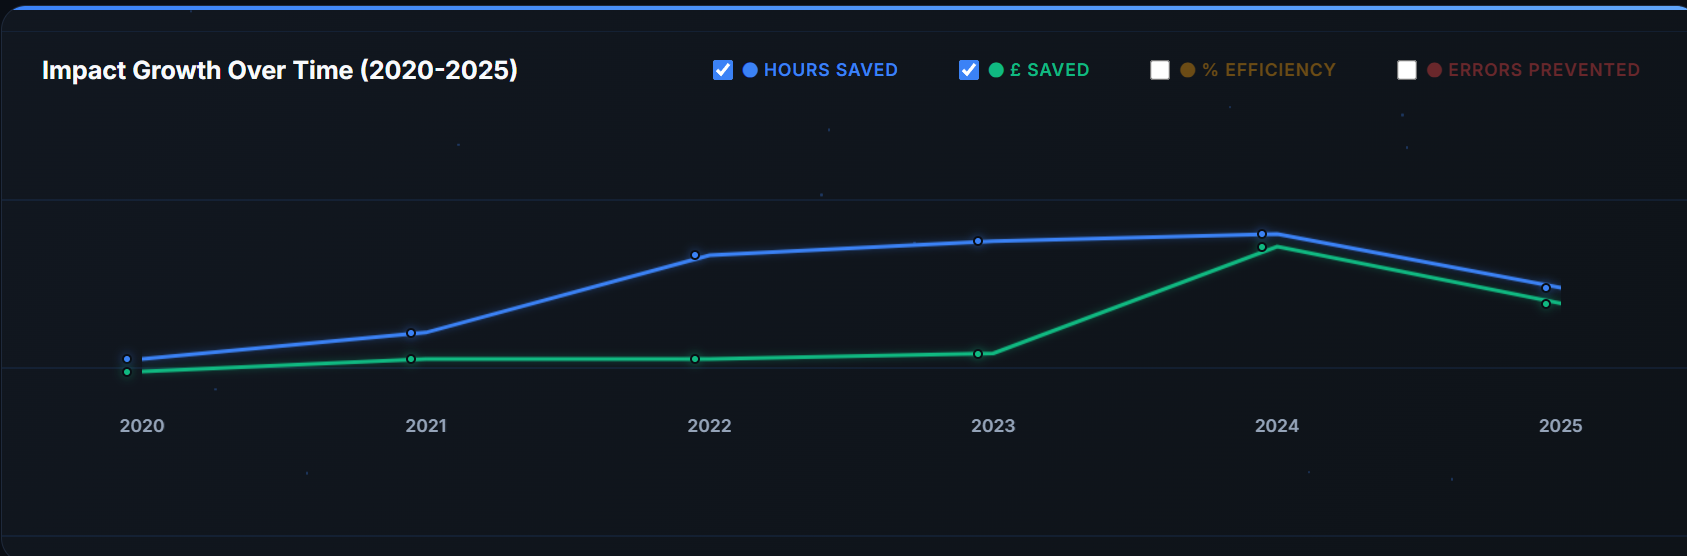
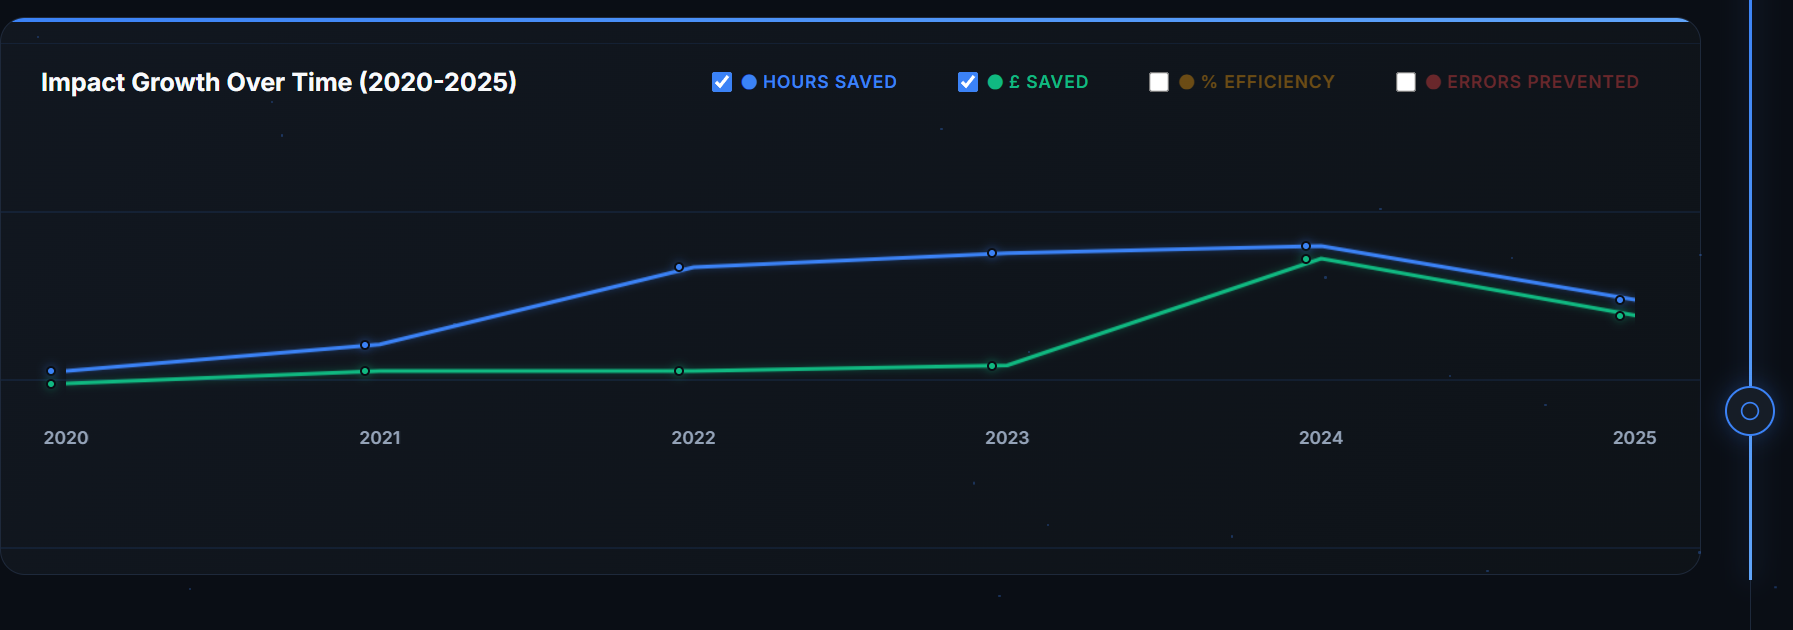
Fix 2020 dots alignment - all elements use same coordinate system
FINALLY FIXED: Lines, dots, and labels now use IDENTICAL positioning logic.

All three now calculate:
- chartAreaWidth = canvas.width - padding.left - padding.right
- position = padding.left + (point.x/100) × chartAreaWidth

For 2020 (x=0%):
- Lines drawn at: 60px (padding.left)
- Dots positioned at: 60px (padding.left)
- Year labels at: 60px (padding.left)

Perfect alignment guaranteed by using same formula everywhere.

🤖 Generated with [Claude Code](https://claude.com/claude-code)

diff --git a/index.html b/index.html
@@ -5588,8 +5588,10 @@
 
                         const dotContainer = document.createElement('div');
                         dotContainer.style.position = 'absolute';
-                        // Position dot: canvas is now full width, so just use point.x percentage
-                        const dotLeftPx = (point.x / 100) * canvas.width;
+                        // Position dot with same logic as canvas drawing
+                        // Canvas width is full, but we need to account for visual chart area with padding
+                        const chartAreaWidth = canvas.width - padding.left - padding.right;
+                        const dotLeftPx = padding.left + (point.x / 100) * chartAreaWidth;
                         dotContainer.style.left = dotLeftPx + 'px';
                         dotContainer.style.top = (padding.top + point.y + yOffset - 4) + 'px'; // Apply offset + center dot
                         dotContainer.style.transform = 'translateX(-50%)'; // Only center horizontally
@@ -5658,8 +5660,9 @@
                             const yearLabel = document.createElement('div');
                             yearLabel.textContent = point.year;
                             yearLabel.style.position = 'absolute';
-                            // Position year label matching canvas/dots (full width canvas)
-                            const yearLeftPx = (point.x / 100) * canvas.width;
+                            // Position year label matching dots
+                            const chartAreaWidth = canvas.width - padding.left - padding.right;
+                            const yearLeftPx = padding.left + (point.x / 100) * chartAreaWidth;
                             yearLabel.style.left = yearLeftPx + 'px';
                             yearLabel.style.bottom = '15px';
                             yearLabel.style.transform = 'translateX(-50%)';
@@ -5679,7 +5682,9 @@
                         // Convert all metrics' points to pixel coordinates with overlap detection
                         const allPixelLines = metricsPoints.map(({ points, color }, lineIndex) => ({
                             pixelPoints: points.map((p, pointIndex) => {
-                                const x = (p.x / 100) * canvasWidth;
+                                // Draw within chart area (padding.left to canvas.width - padding.right)
+                                const chartAreaWidth = canvasWidth - padding.left - padding.right;
+                                const x = padding.left + (p.x / 100) * chartAreaWidth;
                                 let y = p.y;
 
                                 // Check if this point overlaps with any previous line's same point
